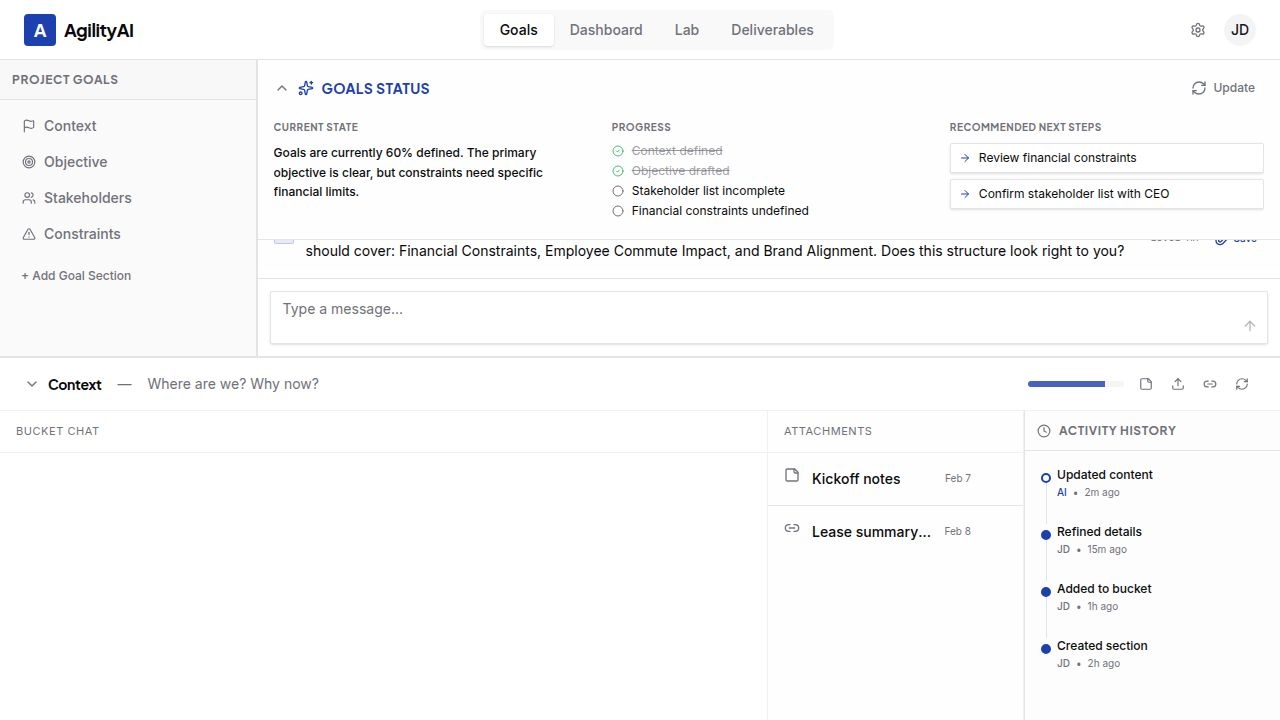
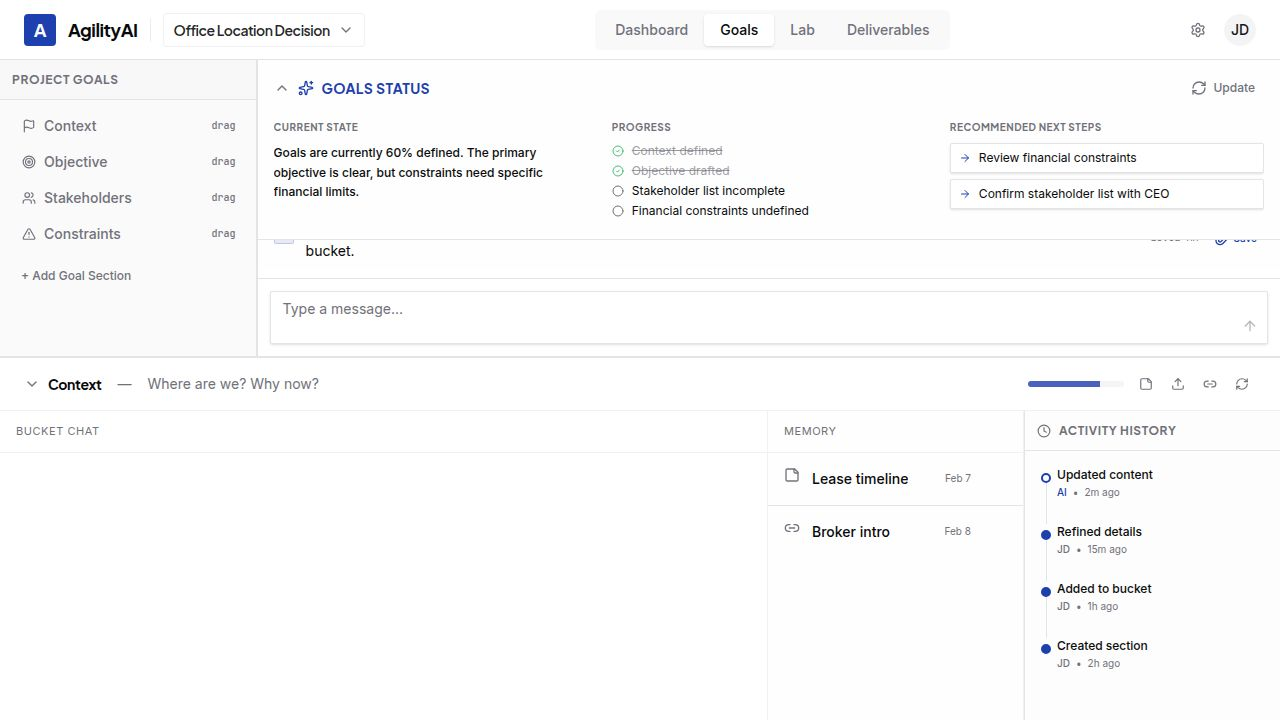
Update the label for attachment panels to "Memory" on three pages
Modified the "Attachments" panel title to "Memory" in DeliverablesPage.tsx, GoalsPage.tsx, and LabPage.tsx.

Replit-Commit-Author: Agent
Replit-Commit-Session-Id: d8c7b754-c7f1-429b-b9b8-65f5bda3d124
Replit-Commit-Checkpoint-Type: full_checkpoint
Replit-Commit-Event-Id: f0fbc39a-4b3c-4ec5-bc36-fee89e31f8cf
Replit-Commit-Screenshot-Url: https://storage.googleapis.com/screenshot-production-us-central1/a947ed1d-d6a8-4ecb-854e-4551dddba85d/d8c7b754-c7f1-429b-b9b8-65f5bda3d124/QUYEknM
Replit-Helium-Checkpoint-Created: true

diff --git a/client/src/pages/DeliverablesPage.tsx b/client/src/pages/DeliverablesPage.tsx
@@ -408,7 +408,7 @@ export default function DeliverablesPage() {
                                             {/* Right Attachments Column */}
                                             <div className="w-[20%] bg-muted/5 border-r border-border/50">
                                                 <div className="h-full flex flex-col">
-                                                    <div className="px-4 py-3 border-b border-border/50 text-[11px] uppercase tracking-wider text-muted-foreground" data-testid={`text-attachments-title-${doc.id}`}>Attachments</div>
+                                                    <div className="px-4 py-3 border-b border-border/50 text-[11px] uppercase tracking-wider text-muted-foreground" data-testid={`text-attachments-title-${doc.id}`}>Memory</div>
                                                     <div className="flex-1 overflow-y-auto">
                                                         {(((doc as any).items || []) as any[]).length === 0 ? (
                                                             <div className="px-4 py-3 text-sm text-muted-foreground" data-testid={`text-attachments-empty-${doc.id}`}>No files, links, or notes yet.</div>

diff --git a/client/src/pages/GoalsPage.tsx b/client/src/pages/GoalsPage.tsx
@@ -433,7 +433,7 @@ export default function GoalsPage() {
                                             {/* Right Attachments Column */}
                                             <div className="w-[20%] bg-muted/5 border-r border-border/50">
                                                 <div className="h-full flex flex-col">
-                                                    <div className="px-4 py-3 border-b border-border/50 text-[11px] uppercase tracking-wider text-muted-foreground" data-testid={`text-attachments-title-${section.id}`}>Attachments</div>
+                                                    <div className="px-4 py-3 border-b border-border/50 text-[11px] uppercase tracking-wider text-muted-foreground" data-testid={`text-attachments-title-${section.id}`}>Memory</div>
                                                     <div className="flex-1 overflow-y-auto">
                                                         {(section.items || []).length === 0 ? (
                                                             <div className="px-4 py-3 text-sm text-muted-foreground" data-testid={`text-attachments-empty-${section.id}`}>No files, links, or notes yet.</div>

diff --git a/client/src/pages/LabPage.tsx b/client/src/pages/LabPage.tsx
@@ -387,7 +387,7 @@ export default function LabPage() {
                                             {/* Right Attachments Column */}
                                             <div className="w-[20%] bg-muted/5 border-r border-border/50">
                                                 <div className="h-full flex flex-col">
-                                                    <div className="px-4 py-3 border-b border-border/50 text-[11px] uppercase tracking-wider text-muted-foreground" data-testid={`text-attachments-title-${bucket.id}`}>Attachments</div>
+                                                    <div className="px-4 py-3 border-b border-border/50 text-[11px] uppercase tracking-wider text-muted-foreground" data-testid={`text-attachments-title-${bucket.id}`}>Memory</div>
                                                     <div className="flex-1 overflow-y-auto">
                                                         {(bucket.items || []).length === 0 ? (
                                                             <div className="px-4 py-3 text-sm text-muted-foreground" data-testid={`text-attachments-empty-${bucket.id}`}>No files, links, or notes yet.</div>
